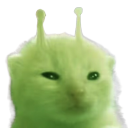
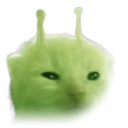
Give glorp's UFO a glass bubble, more depth and more height
- The cockpit has a visible glass bubble: a shader keeps it clear
  face-on and bright towards the outline, with a highlight along its
  upper-left edge and a metal collar at its base. It is tall enough to
  hold glorp, antennae and all.
- Glorp no longer reads as a cut-out card: the picture's cropped chin
  and right cheek fade out along a rounded edge (the top and left keep
  their own fur outline), it is drawn with its soft alpha instead of a
  hard cut-off, and it sits on the cockpit floor rather than in it.
  The original picture is unchanged in archive/original-assets/.
- The hull is a curved two-tone shell that darkens towards the rim,
  with a heavier rim, panel seams and the bulbs.
- The UFO hovers at 2.3 instead of 1.1; its tractor beam reaches the
  water and fades out on the way down instead of reading as a tube.

Claude-Session: https://claude.ai/code/session_01SJrSA8GUu4u52xHNtpdqfQ

Changed region(s): [[0.0625, 0.4062, 1.0, 1.0]]

diff --git a/src/redesign/worlds/ufo.js b/src/redesign/worlds/ufo.js
@@ -1,39 +1,79 @@
 import * as THREE from 'three';
 
-// Glorp on a UFO, hovering off the west shore where a sailboat used to be.
-// The saucer is island geometry; glorp is the original picture
+// Glorp on a UFO, hovering high off the west shore where a sailboat used to
+// be. The saucer is island geometry; glorp is the original picture
 // (public/game/glorp.webp), a camera-facing sprite in the cockpit under a
-// glass dome. Until the picture loads the saucer flies empty.
+// glass bubble. Until the picture loads the saucer flies empty.
 export const GLORP='/game/glorp.webp';
-const HOVER=1.1,BULBS=10;
+const HOVER=2.3,SEA=-.78,SCALE=1.25,BULBS=10;
+// The bubble is tall enough to hold glorp, antennae and all, from the island camera.
+const DOME={radius:.52,height:.86,floor:.2};
+
+// Glass: nearly clear face-on and brighter towards the outline, so the bubble
+// reads against the water and glorp shows through it.
+function glassMaterial() {
+  return new THREE.ShaderMaterial({
+    uniforms:{tint:{value:new THREE.Color('#c8f6ff')},face:{value:.1},rim:{value:.8}},
+    vertexShader:'varying vec3 vNormal;void main(){vNormal=normalize(normalMatrix*normal);gl_Position=projectionMatrix*modelViewMatrix*vec4(position,1.);}',
+    fragmentShader:`uniform vec3 tint;uniform float face,rim;varying vec3 vNormal;
+      void main(){
+        float edge=pow(1.-abs(normalize(vNormal).z),2.);
+        gl_FragColor=vec4(mix(tint,vec3(1.),edge*.5),face+rim*edge);
+        #include <colorspace_fragment>
+      }`,
+    transparent:true,depthWrite:false,
+  });
+}
 
 export function buildUfo({group,mesh,animations,ownMaterial,ownGeometry,ownTexture,redraw,at}) {
   const ufo=group('glorp on a UFO',at[0],at[1]);
-  ufo.position.y=HOVER;ufo.scale.setScalar(1.25);ufo.userData.dynamic=true;
+  ufo.position.y=HOVER;ufo.scale.setScalar(SCALE);ufo.userData.dynamic=true;
   // The saucer turns on its own, so it is a batching root of its own.
   const saucer=new THREE.Group();saucer.userData.dynamic=true;ufo.add(saucer);
-  // A flat lathed hull, a rim band and a ring of bulbs that chase round it.
-  const profile=[[0,-.17],[.3,-.19],[.62,-.11],[.82,0],[.64,.08],[.4,.12],[0,.12]].map(([x,y])=>new THREE.Vector2(x,y));
-  mesh(saucer,new THREE.LatheGeometry(profile,24),'#9aaab2',[0,0,0],true);
-  mesh(saucer,new THREE.TorusGeometry(.82,.035,6,40).rotateX(Math.PI/2),'#5b6a73');
-  mesh(saucer,new THREE.TorusGeometry(.5,.025,6,32).rotateX(Math.PI/2),'#6f8f86',[0,.105,0]);
+  // A curved two-tone hull (the toon shading bands give it depth), a metal
+  // rim and collar, panel seams across the upper shell and a ring of bulbs
+  // that chase round the rim.
+  const lathe=points=>new THREE.LatheGeometry(points.map(([x,y])=>new THREE.Vector2(x,y)),32);
+  mesh(saucer,lathe([[0,-.2],[.26,-.22],[.5,-.17],[.7,-.08],[.85,0]]),'#7c8b93',[0,0,0],true);
+  // The upper shell darkens towards the rim, so it reads as curved even
+  // where the toon shading would paint it a single tone.
+  const shell=lathe([[.85,0],[.8,.06],[.72,.12],[.62,.17],[.52,.2],[0,.2]]),shade=[],rim=new THREE.Vector2();
+  for(let i=0;i<shell.attributes.position.count;i++){const r=rim.set(shell.attributes.position.getX(i),shell.attributes.position.getZ(i)).length(),v=1-.38*Math.min(1,Math.max(0,(r-.52)/.33));shade.push(v,v,v);}
+  shell.setAttribute('color',new THREE.Float32BufferAttribute(shade,3));
+  mesh(saucer,shell,'#c3d0d6',[0,0,0],true,{vertexColors:true});
+  mesh(saucer,new THREE.TorusGeometry(.85,.04,8,48).rotateX(Math.PI/2),'#55636c');
+  mesh(saucer,new THREE.TorusGeometry(DOME.radius,.05,8,48).rotateX(Math.PI/2),'#55636c',[0,DOME.floor,0]);
+  for(let i=0;i<8;i++) {
+    const a=(i+.5)/8*Math.PI*2,seam=new THREE.Group();
+    seam.rotation.y=-a;saucer.add(seam);
+    const strip=mesh(seam,new THREE.BoxGeometry(.27,.012,.014),'#76858d',[.69,.12,0]);strip.rotation.z=-.58;strip.castShadow=false;
+  }
   const bulb=ownGeometry(new THREE.SphereGeometry(.05,8,6));
   const lit=['#ffd166','#7ee0c3'].map(color=>ownMaterial(new THREE.MeshBasicMaterial({color,toneMapped:false})));
   for(let i=0;i<BULBS;i++) {
     const a=i/BULBS*Math.PI*2,light=new THREE.Mesh(bulb,lit[i%2]);
     light.position.set(Math.cos(a)*.84,0,Math.sin(a)*.84);saucer.add(light);
   }
-  // Glorp sits on the cockpit floor, face clear of the rim when seen from above.
+  // Glorp sits on the cockpit floor, face clear of the rim when seen from
+  // above. The picture's cropped chin and right side fade out, and its soft
+  // fur edge is kept, so glorp does not read as a cut-out card.
   const picture=new THREE.TextureLoader().load(GLORP,()=>{pilot.visible=true;redraw();});
   picture.colorSpace=THREE.SRGBColorSpace;ownTexture(picture);
-  const pilot=new THREE.Sprite(ownMaterial(new THREE.SpriteMaterial({map:picture,alphaTest:.5,transparent:false,toneMapped:false})));
-  pilot.center.set(.5,0);pilot.scale.set(.72,.72,1);pilot.position.y=.1;pilot.visible=false;
+  const pilot=new THREE.Sprite(ownMaterial(new THREE.SpriteMaterial({map:picture,alphaTest:.02,depthWrite:false,toneMapped:false})));
+  pilot.center.set(.5,0);pilot.scale.set(.7,.7,1);pilot.position.y=DOME.floor;pilot.renderOrder=1;pilot.visible=false;
   ufo.add(pilot);
-  const dome=new THREE.Mesh(ownGeometry(new THREE.SphereGeometry(.5,20,10,0,Math.PI*2,0,Math.PI/2)),ownMaterial(new THREE.MeshBasicMaterial({color:'#a6f5cf',transparent:true,opacity:.38,depthWrite:false})));
-  dome.position.y=.1;dome.renderOrder=2;ufo.add(dome);
-  // A faint tractor beam down to the water.
-  const beam=new THREE.Mesh(ownGeometry(new THREE.CylinderGeometry(.22,.75,HOVER+.6,20,1,true).translate(0,-(HOVER+.6)/2-.12,0)),
-    ownMaterial(new THREE.MeshBasicMaterial({color:'#b8ffc9',transparent:true,opacity:.12,depthWrite:false,blending:THREE.AdditiveBlending,side:THREE.DoubleSide,toneMapped:false})));
+  // The glass bubble, drawn after glorp, with a highlight along its upper-left edge.
+  const dome=new THREE.Mesh(ownGeometry(new THREE.SphereGeometry(DOME.radius,28,14,0,Math.PI*2,0,Math.PI/2)),ownMaterial(glassMaterial()));
+  dome.scale.y=DOME.height/DOME.radius;dome.position.y=DOME.floor;dome.renderOrder=2;ufo.add(dome);
+  const glint=new THREE.Mesh(ownGeometry(new THREE.SphereGeometry(DOME.radius*1.012,10,4,-.55,.5,.18,.3)),
+    ownMaterial(new THREE.MeshBasicMaterial({color:'#ffffff',transparent:true,opacity:.6,depthWrite:false,toneMapped:false})));
+  glint.renderOrder=3;dome.add(glint);
+  // A faint tractor beam, strongest under the hull and fading out towards the water.
+  const reach=(HOVER-SEA)/SCALE-.2;
+  const cone=ownGeometry(new THREE.CylinderGeometry(.2,.65,reach,24,1,true).translate(0,-reach/2-.2,0));
+  const fade=[];for(let i=0;i<cone.attributes.position.count;i++)fade.push(1,1,1,cone.attributes.position.getY(i)>-.21?1:0);
+  cone.setAttribute('color',new THREE.Float32BufferAttribute(fade,4));
+  const beam=new THREE.Mesh(cone,ownMaterial(new THREE.MeshBasicMaterial({color:'#b8ffc9',vertexColors:true,transparent:true,opacity:.3,depthWrite:false,blending:THREE.AdditiveBlending,side:THREE.DoubleSide,toneMapped:false})));
   beam.renderOrder=1;ufo.add(beam);
   const colors=lit.map(material=>material.color.clone());
   animations.push(t=> {
@@ -43,7 +83,7 @@ export function buildUfo({group,mesh,animations,ownMaterial,ownGeometry,ownTextu
     // The two sets of bulbs take turns, so the light seems to run round the rim.
     const swap=Math.floor(t*4)%2;
     lit.forEach((material,i)=>material.color.copy(colors[(i+swap)%2]));
-    beam.material.opacity=.1+.05*Math.sin(t*2.2);
+    beam.material.opacity=.26+.08*Math.sin(t*2.2);
   });
   return ufo;
 }
